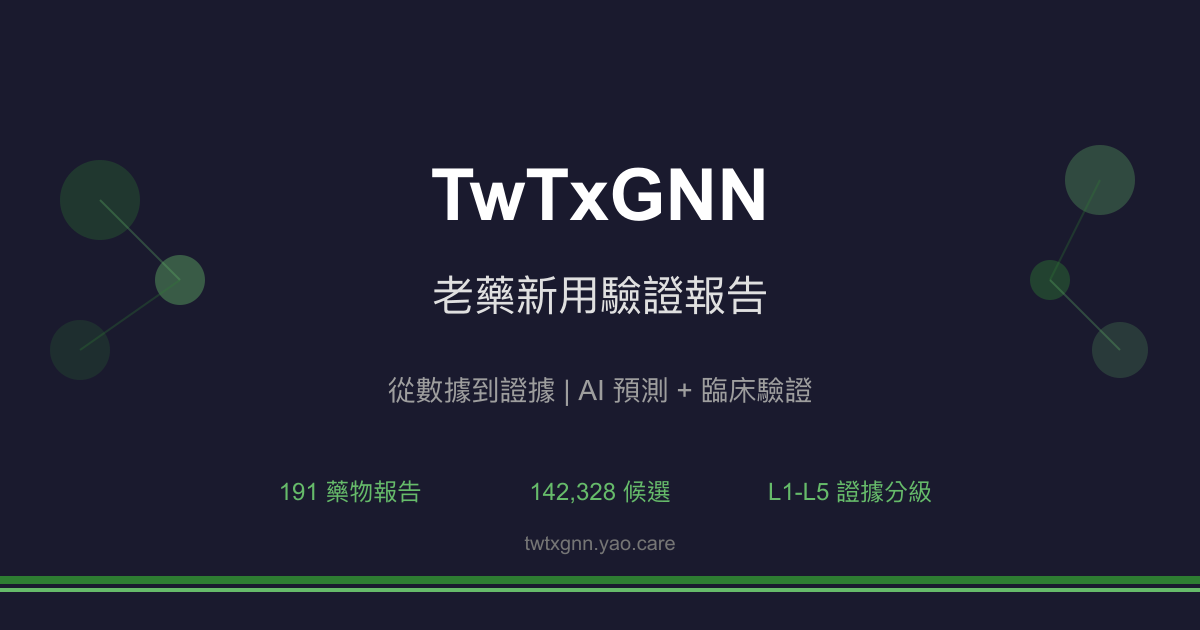
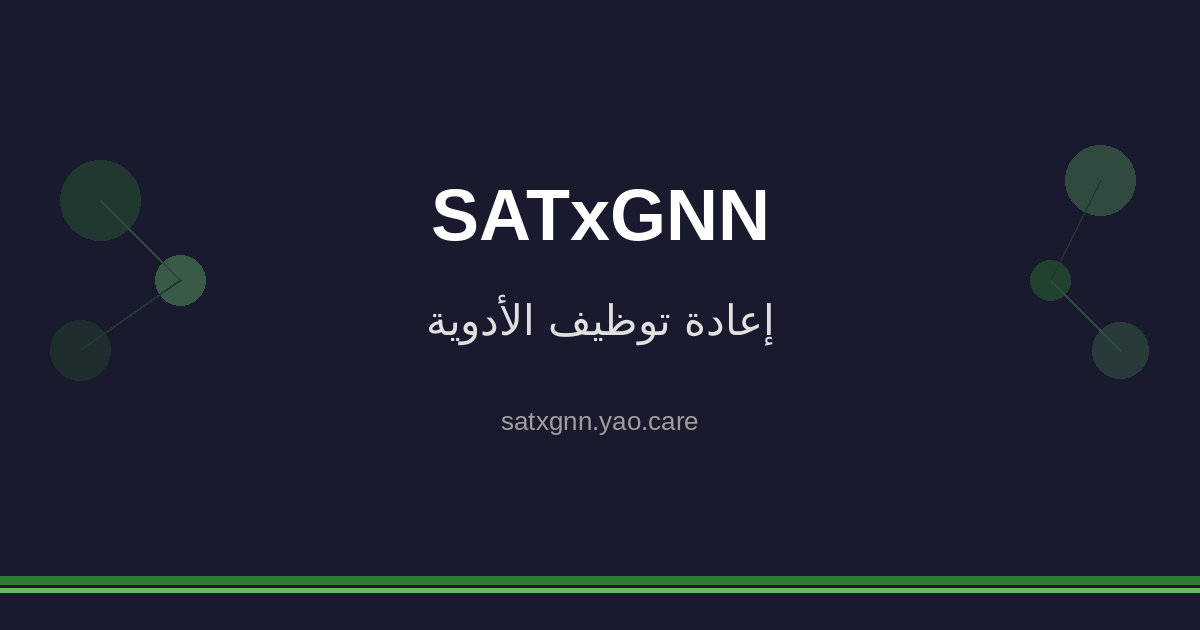
fix: 移除照抄 TwTxGNN 的內容（og 圖、分享按鈕）
- og-default.png／svg：原檔是 TwTxGNN 的圖（TwTxGNN、191 藥物報告、142,328 候選、twtxgnn.yao.care）。
  改由母 repo .claude/gen_og_image.py 產生本站圖：只放站名、網域、本站語言的一行副標（取自 _config.yml title），不放數字。
- assets/images/README.md：設計要求裡的「TwTxGNN」與標語改成本站實際內容，註明產生方式。
- _includes/social-share.html：X hashtag 與 mailto 主旨的 TwTxGNN → SATxGNN；推文與郵件內文原為中文「老藥新用驗證報告」，按鈕文字原為英文，改成本站語言。（此 include 目前沒有頁面引用，先修正以免日後啟用時帶出 Tw 字樣。）

Claude-Session: https://claude.ai/code/session_013aGXmRzC9hmsD5XtZ9FusM

diff --git a/docs/_includes/social-share.html b/docs/_includes/social-share.html
@@ -1,14 +1,14 @@
-<!-- 學術分享按鈕 -->
+<!-- Share buttons -->
 <div class="social-share" style="margin: 2rem 0; padding: 1.25rem; background: #f8f9fa; border-radius: 8px; border: 1px solid #e0e0e0;">
-  <strong style="display: block; margin-bottom: 0.75rem; color: #333;">Share this report:</strong>
+  <strong style="display: block; margin-bottom: 0.75rem; color: #333;">شارك هذا التقرير:</strong>
   <div style="display: flex; gap: 0.5rem; flex-wrap: wrap;">
     <!-- Twitter/X -->
-    <a href="https://twitter.com/intent/tweet?text={{ page.title | url_encode }}%20%E8%80%81%E8%97%A5%E6%96%B0%E7%94%A8%E9%A9%97%E8%AD%89%E5%A0%B1%E5%91%8A&url={{ page.url | absolute_url | url_encode }}&hashtags=DrugRepurposing,TwTxGNN"
+    <a href="https://twitter.com/intent/tweet?text={{ page.title | url_encode }}%20%D8%AA%D9%82%D8%B1%D9%8A%D8%B1%20%D8%A5%D8%B9%D8%A7%D8%AF%D8%A9%20%D8%AA%D9%88%D8%B8%D9%8A%D9%81%20%D8%A7%D9%84%D8%A3%D8%AF%D9%88%D9%8A%D8%A9&url={{ page.url | absolute_url | url_encode }}&hashtags=DrugRepurposing,SATxGNN"
        target="_blank" rel="noopener noreferrer"
        style="display: inline-flex; align-items: center; gap: 0.375rem; padding: 0.5rem 1rem; background: #000; color: white; text-decoration: none; border-radius: 6px; font-size: 0.9rem; font-weight: 500; transition: opacity 0.2s;"
        onmouseover="this.style.opacity='0.8'" onmouseout="this.style.opacity='1'">
       <svg width="16" height="16" fill="currentColor" viewBox="0 0 24 24"><path d="M18.244 2.25h3.308l-7.227 8.26 8.502 11.24H16.17l-5.214-6.817L4.99 21.75H1.68l7.73-8.835L1.254 2.25H8.08l4.713 6.231zm-1.161 17.52h1.833L7.084 4.126H5.117z"/></svg>
-      Share on X
+      شارك على X
     </a>
 
     <!-- LinkedIn -->
@@ -20,16 +20,16 @@
       LinkedIn
     </a>
 
-    <!-- 複製連結 -->
+    <!-- Copy link -->
     <button onclick="copyReportLink(this)"
             style="display: inline-flex; align-items: center; gap: 0.375rem; padding: 0.5rem 1rem; background: #6c757d; color: white; border: none; border-radius: 6px; cursor: pointer; font-size: 0.9rem; font-weight: 500; transition: all 0.2s;"
             onmouseover="this.style.background='#5a6268'" onmouseout="this.style.background='#6c757d'">
       <svg width="16" height="16" fill="currentColor" viewBox="0 0 24 24"><path d="M16 1H4c-1.1 0-2 .9-2 2v14h2V3h12V1zm3 4H8c-1.1 0-2 .9-2 2v14c0 1.1.9 2 2 2h11c1.1 0 2-.9 2-2V7c0-1.1-.9-2-2-2zm0 16H8V7h11v14z"/></svg>
-      <span>Copy link</span>
+      <span>نسخ الرابط</span>
     </button>
 
     <!-- Email -->
-    <a href="mailto:?subject={{ page.title | url_encode }}%20-%20TwTxGNN&body=%E6%8E%A8%E8%96%A6%E9%80%99%E4%BB%BD%E8%80%81%E8%97%A5%E6%96%B0%E7%94%A8%E9%A9%97%E8%AD%89%E5%A0%B1%E5%91%8A%EF%BC%9A%0A%0A{{ page.url | absolute_url | url_encode }}"
+    <a href="mailto:?subject={{ page.title | url_encode }}%20-%20SATxGNN&body=%D8%A3%D9%86%D8%B5%D8%AD%D9%83%20%D8%A8%D9%87%D8%B0%D8%A7%20%D8%A7%D9%84%D8%AA%D9%82%D8%B1%D9%8A%D8%B1%20%D8%B9%D9%86%20%D8%A5%D8%B9%D8%A7%D8%AF%D8%A9%20%D8%AA%D9%88%D8%B8%D9%8A%D9%81%20%D8%A7%D9%84%D8%A3%D8%AF%D9%88%D9%8A%D8%A9%3A%0A%0A{{ page.url | absolute_url | url_encode }}"
        style="display: inline-flex; align-items: center; gap: 0.375rem; padding: 0.5rem 1rem; background: #EA4335; color: white; text-decoration: none; border-radius: 6px; font-size: 0.9rem; font-weight: 500; transition: opacity 0.2s;"
        onmouseover="this.style.opacity='0.8'" onmouseout="this.style.opacity='1'">
       <svg width="16" height="16" fill="currentColor" viewBox="0 0 24 24"><path d="M20 4H4c-1.1 0-1.99.9-1.99 2L2 18c0 1.1.9 2 2 2h16c1.1 0 2-.9 2-2V6c0-1.1-.9-2-2-2zm0 4l-8 5-8-5V6l8 5 8-5v2z"/></svg>
@@ -44,7 +44,7 @@ function copyReportLink(btn) {
   navigator.clipboard.writeText(url).then(() => {
     const span = btn.querySelector('span');
     const originalText = span.textContent;
-    span.textContent = 'Copied!';
+    span.textContent = 'تم النسخ!';
     btn.style.background = '#28a745';
     setTimeout(() => {
       span.textContent = originalText;

diff --git a/docs/assets/images/README.md b/docs/assets/images/README.md
@@ -15,11 +15,15 @@ nav_exclude: true
 
 ### 設計要求
 
-1. 包含網站名稱「TwTxGNN」
-2. 包含標語「老藥新用，從數據到證據」
-3. 簡潔、專業風格
-4. 背景純色或簡單圖案
+1. 包含網站名稱「SATxGNN」與網域
+2. 包含該站語言的一行副標（取自 _config.yml 的 title）
+3. 不放藥物數、候選數等數字（會過期）
+4. 簡潔、專業風格
 5. 適合在社群媒體預覽顯示
+
+### 產生方式
+
+由 TxGNN 母 repo 的 `.claude/gen_og_image.py` 產生（同時輸出 og-default.svg）。
 
 ### 使用位置
 
